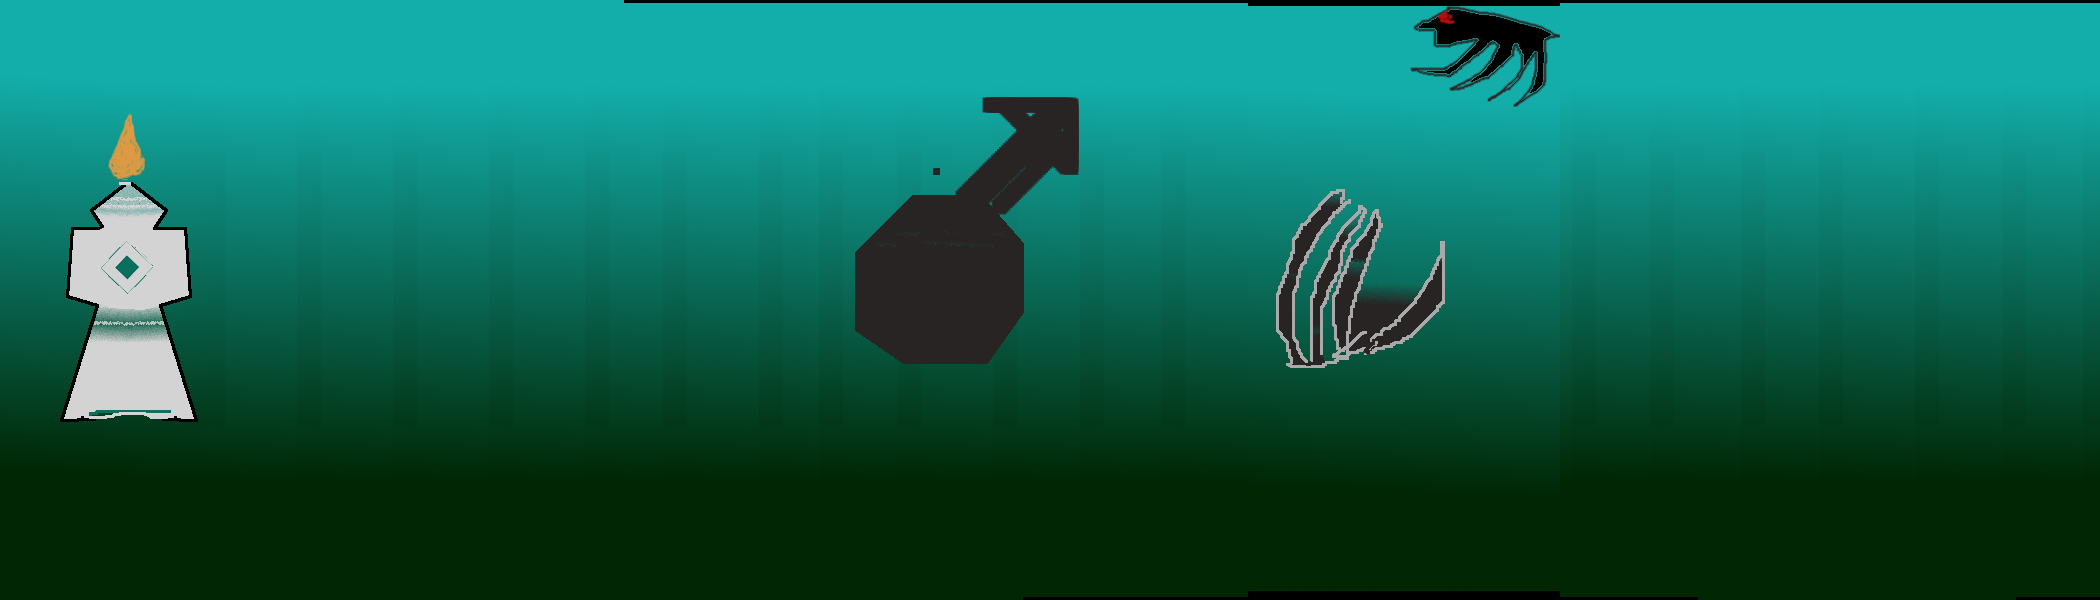
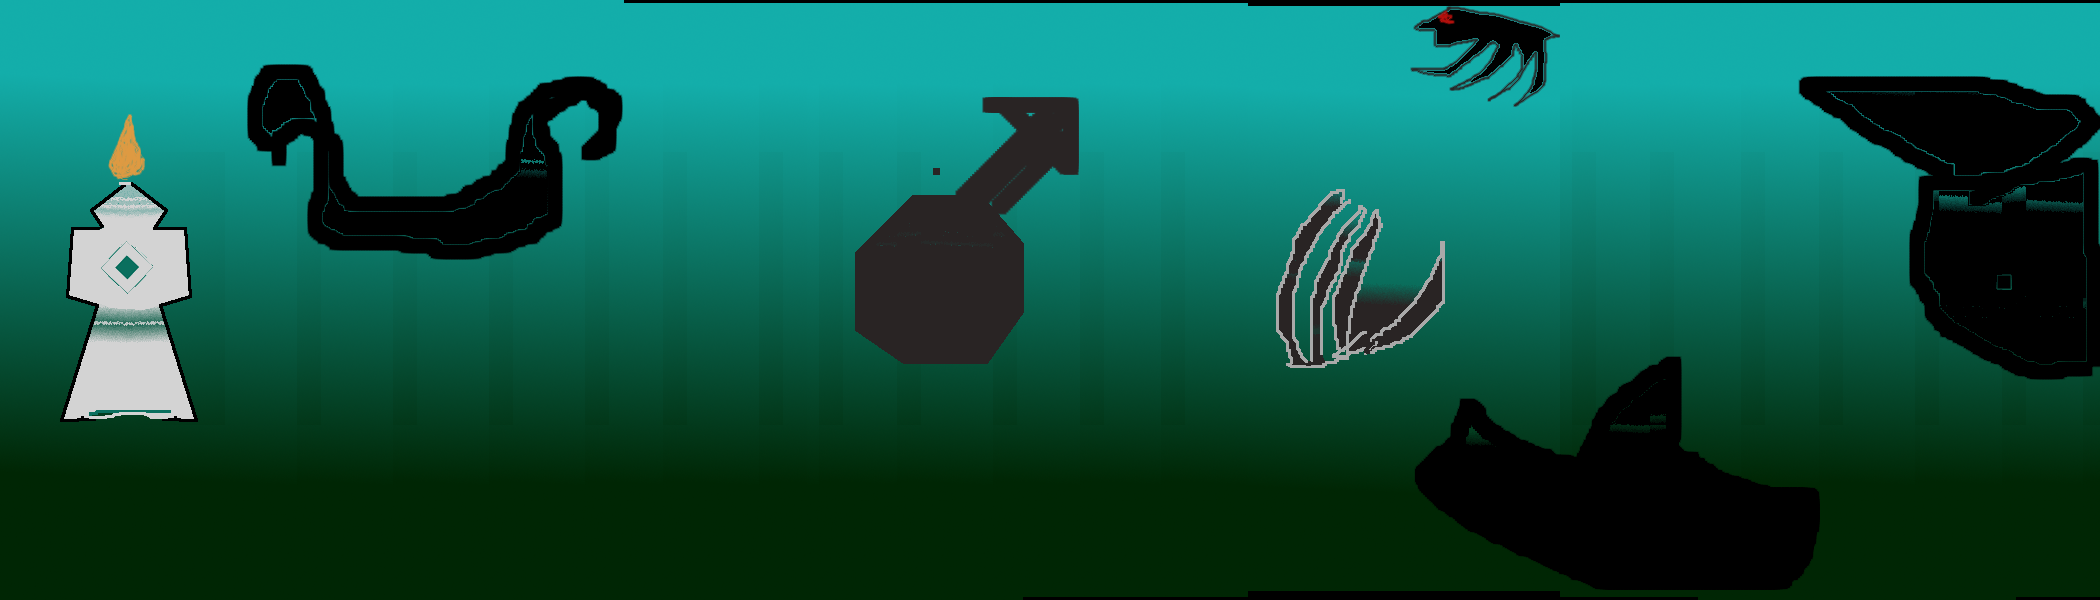
update images and enemy code

Changed region(s): [[0.8357, 0.12, 1.0, 0.63], [0.65, 0.6, 0.8667, 0.99], [0.0929, 0.09, 0.3095, 0.45]]

diff --git a/src/MyPySky.py b/src/MyPySky.py
@@ -107,11 +107,17 @@ class Player(pygame.sprite.Sprite):
                 # Otherwise if we are moving left, do the opposite.
                 self.rect.left = block.rect.right
 
-        # see if we collect any loot
+        # see if we collect any candle
         loot_hit_list = pygame.sprite.spritecollide(self, self.level.loot_list, False)
         for loot in loot_hit_list:
             self.level.loot_list.remove(loot)
             self.score += 1
+
+        # increase health by collecting stars
+        star_hit_list = pygame.sprite.spritecollide(self, self.level.star_list, False)
+        for star in star_hit_list:
+            self.level.star_list.remove(star)
+            self.health += 1        
 
         # contact with enemy
 
@@ -197,38 +203,65 @@ class Enemy(pygame.sprite.Sprite):
     def __init__(self,x,y,img):
         pygame.sprite.Sprite.__init__(self)
         self.image = pygame.image.load(os.path.join('images',img))
-        self.movey = 0
         self.image.convert_alpha()
         self.rect = self.image.get_rect()
         self.rect.x = x
         self.rect.y = y
         self.counter = 0
+        self.change_x = 0
+        self.change_y = 0
+        self.boundary_top = 0
+        self.boundary_bottom = 0
+        self.boundary_left = 0
+        self.boundary_right = 0
 
-    def move(self):
+        level = None
+        player = None
+
+
+    def update(self):
         ''' enemy movement '''
-        distance = random.randint(10,40)
-        speed = random.randint(1,4)
-        self.movey += 1.2
-    
-        if self.counter >= 0 and self.counter <= distance:
-            self.rect.x += speed
-        elif self.counter >= distance and self.counter <= distance*2:
-            self.rect.x -= speed
-        else:
-            self.counter = 0
-       
-        self.counter += 1
+        # Move left/right
+        self.rect.x += self.change_x
 
-        if not self.rect.y >= SCREEN_HEIGHT - TILEX:
-            self.rect.y += self.movey
+        # See if we hit the player
+        hit = pygame.sprite.collide_rect(self, self.player)
+        if hit:
+            # We did hit the player. Shove the player around and
+            # assume he/she won't hit anything else.
 
-        plat_hit_list = pygame.sprite.spritecollide(self, levels.platform_list, False)
-        for p in plat_hit_list:
-            self.movey = 0
-            if self.rect.y > p.rect.y:
-                self.rect.y = p.rect.y+TILEY
+            # If we are moving right, set our right side
+            # to the left side of the item we hit
+            if self.change_x < 0:
+                self.player.rect.right = self.rect.left
             else:
-                self.rect.y = p.rect.y-TILEY
+                # Otherwise if we are moving left, do the opposite.
+                self.player.rect.left = self.rect.right
+
+        # Move up/down
+        self.rect.y += self.change_y
+
+        # Check and see if we hit the player
+        hit = pygame.sprite.collide_rect(self, self.player)
+        if hit:
+            # We did hit the player. Shove the player around and
+            # assume he/she won't hit anything else.
+
+            # Reset our position based on the top/bottom of the object.
+            if self.change_y < 0:
+                self.player.rect.bottom = self.rect.top
+            else:
+                self.player.rect.top = self.rect.bottom
+
+        # Check the boundaries and see if we need to reverse
+        # direction.
+        if self.rect.bottom > self.boundary_bottom or self.rect.top < self.boundary_top:
+            self.change_y *= -1
+
+        cur_pos = self.rect.x - self.level.world_shift
+        if cur_pos < self.boundary_left or cur_pos > self.boundary_right:
+            self.change_x *= -1
+
 
 def load_image(self, width, height):
     """ load a single image from image folder and make a pygame sprite. """
@@ -533,11 +566,10 @@ class Level_03(Level):
 
          # Array with type of platform, and x, y location of the platform.
         level = [ [  STONE, 500, 550, ],
-                  [  STONE, 570, 550],
-                  [  STONE, 640, 550],
+                  [  STONE, 600, 550],
+                  [  STONE, 700, 550],
                   [  GRASS, 800, 400],
-                  [  GRASS, 870, 400],
-                  [  GRASS, 940, 400],
+                  [  GRASS, 900, 400],
                   [  GRASS, 1000, 400],
                   [  GRASS, 1070, 500],
                   [  GRASS, 1140, 500],
@@ -566,7 +598,15 @@ class Level_03(Level):
         self.platform_list.add(block)
 
         # Add enemy
-        enemy = Enemy(220,550,"crab.png")
+        enemy = Enemy(600,500,"crab.png")
+        enemy.rect.x = 600
+        enemy.rect.y = 500
+        enemy.boundary_left = random.randint(500,600)
+        enemy.boundary_right = random.randint(600,700)
+        print(enemy.boundary_left,enemy.boundary_right)
+        enemy.change_x = random.randint(1,5)
+        enemy.player = self.player
+        enemy.level = self
         self.enemy_list.add(enemy)
 
 # Create platforms for the level 4
